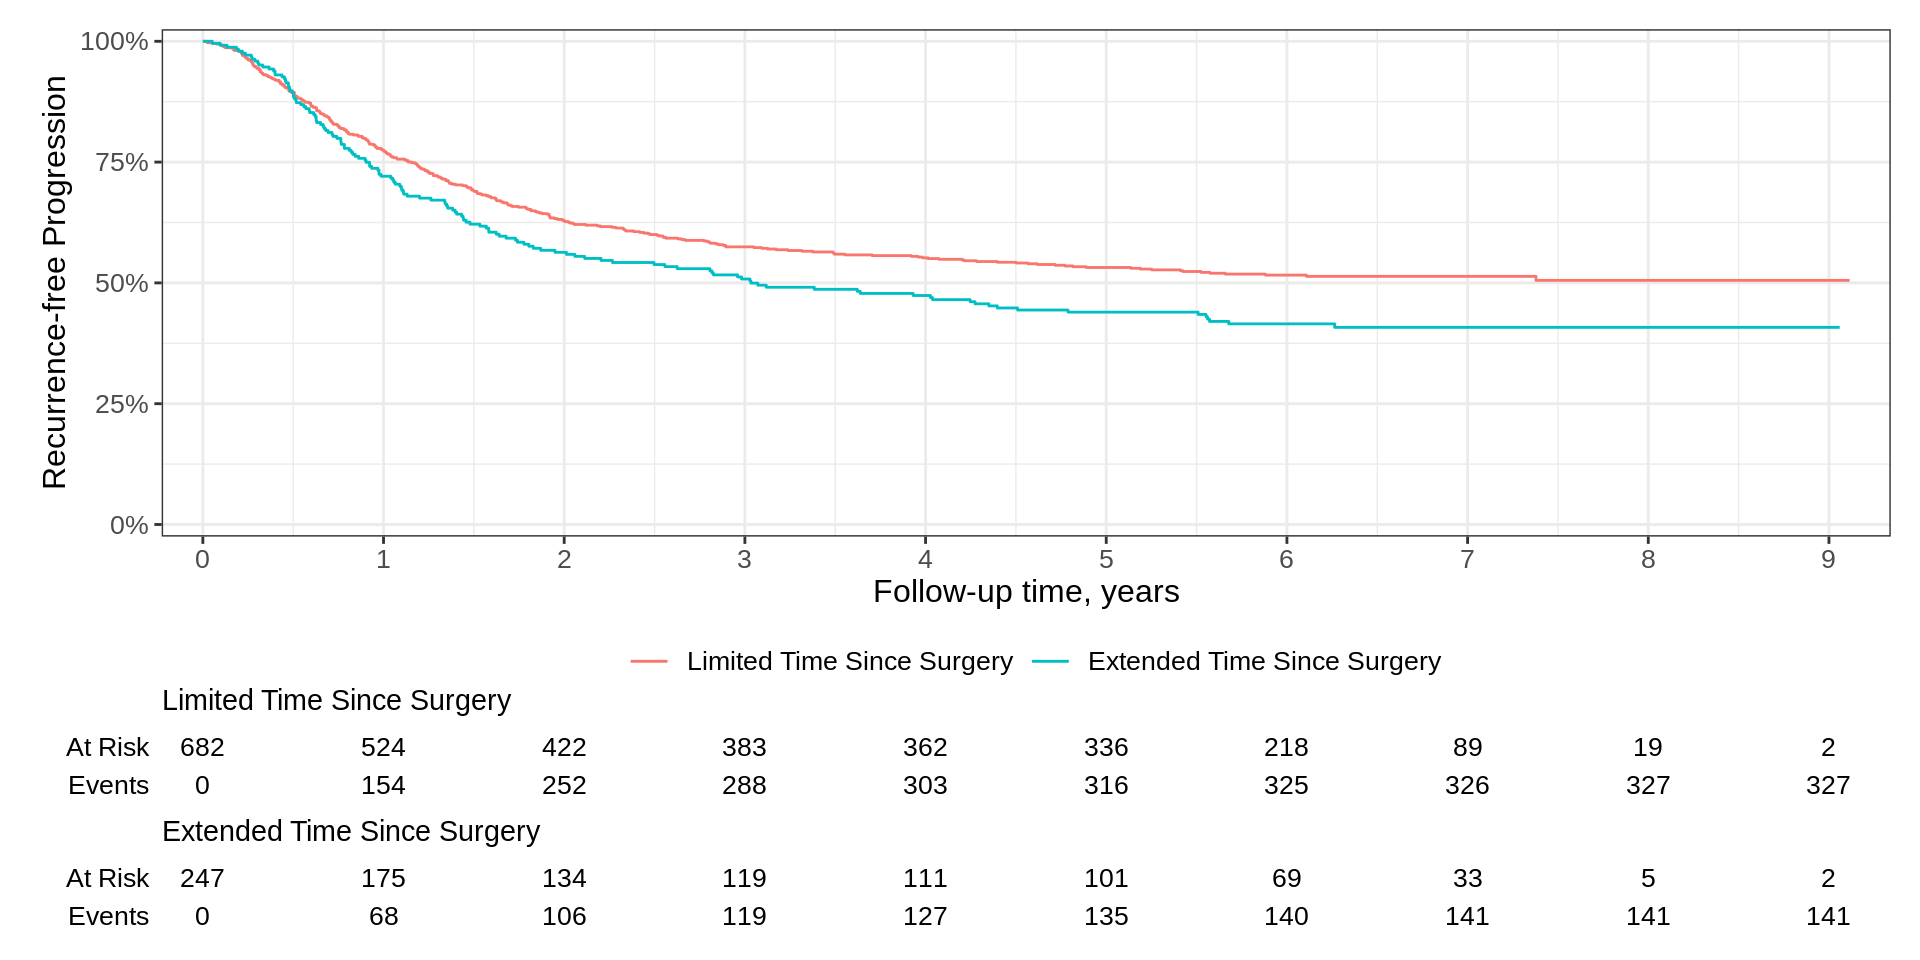
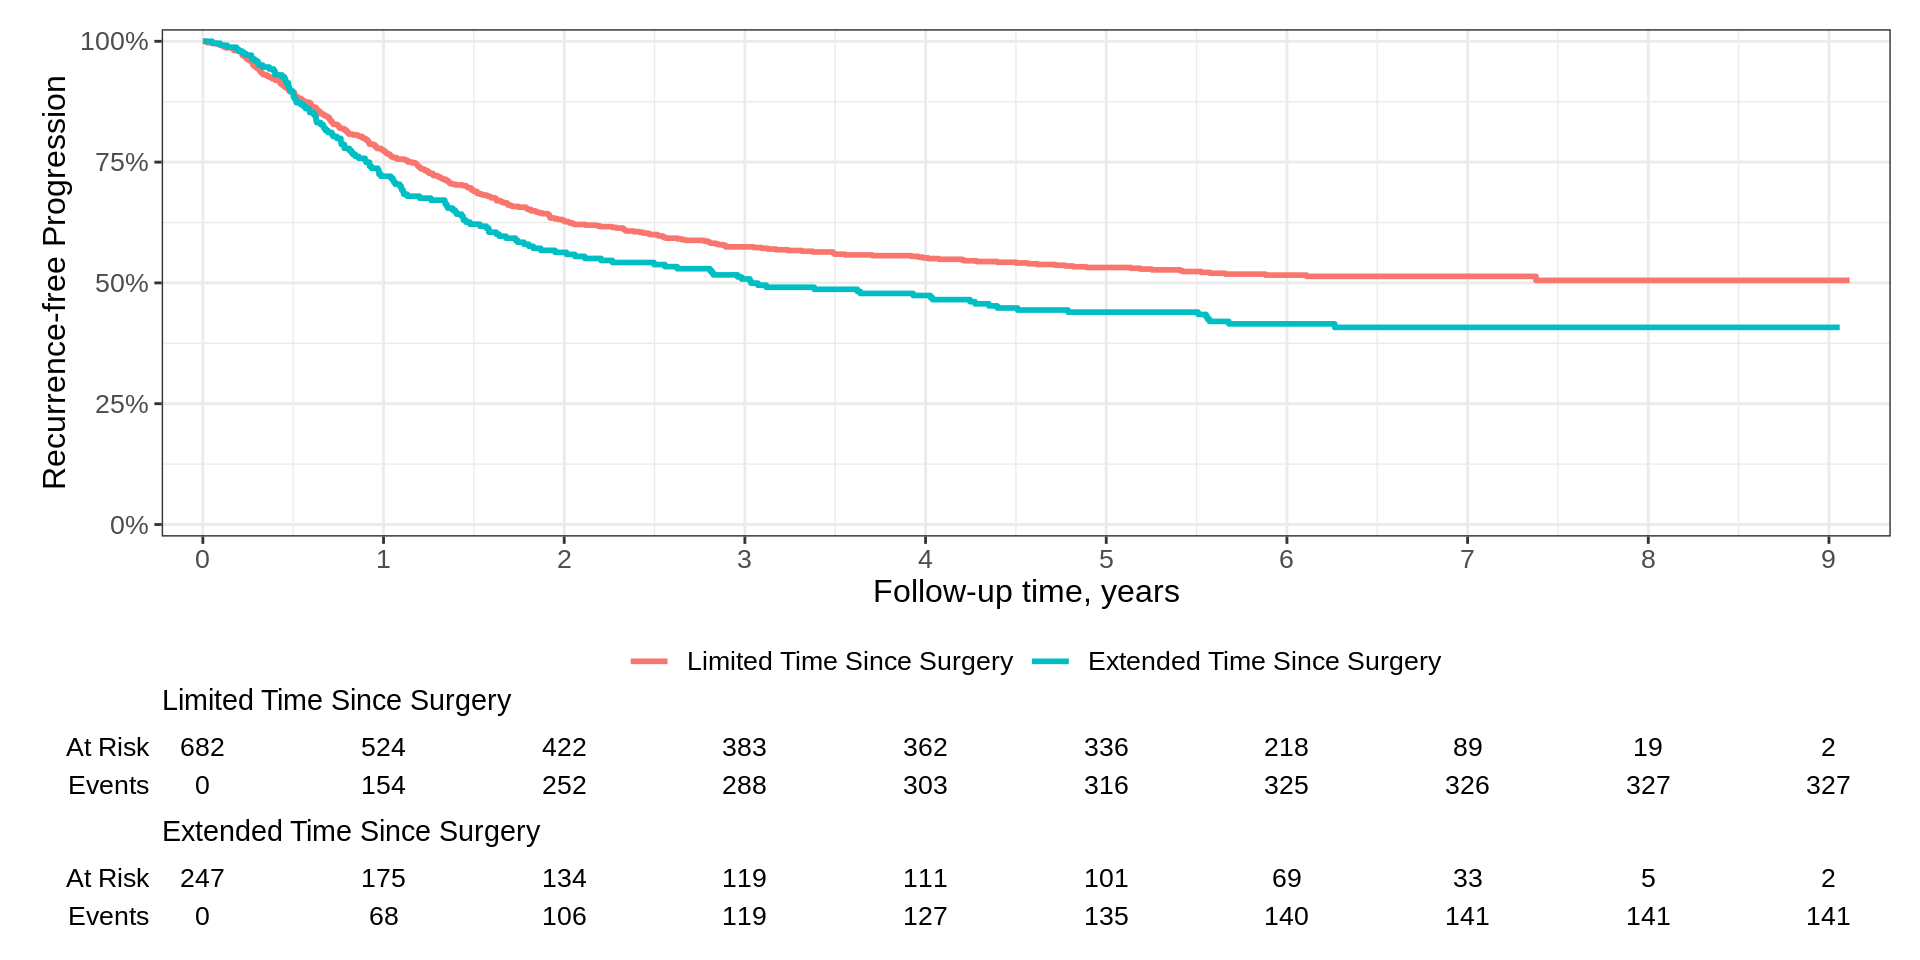
Built site for gh-pages

diff --git a/slides/index.html b/slides/index.html
@@ -1662,7 +1662,7 @@ surg=Extended Time Since Surgery 247    141   3.03    2.01    5.55</code></pre>
 <div class="column" style="width:80%;">
 <div class="cell">
 <div class="sourceCode cell-code" id="cb10"><pre class="sourceCode numberSource r number-lines code-with-copy"><code class="sourceCode r"><span id="cb10-1"><a href="#cb10-1"></a><span class="fu">survfit2</span>(<span class="fu">Surv</span>(time, status) <span class="sc">~</span> surg, <span class="at">data =</span> df_colon) <span class="sc">|&gt;</span> </span>
-<span id="cb10-2"><a href="#cb10-2"></a>  <span class="fu">ggsurvfit</span>() <span class="sc">+</span></span>
+<span id="cb10-2"><a href="#cb10-2"></a>  <span class="fu">ggsurvfit</span>(<span class="at">linewidth =</span> <span class="dv">1</span>) <span class="sc">+</span></span>
 <span id="cb10-3"><a href="#cb10-3"></a>  <span class="fu">add_risktable</span>()</span></code><button title="Copy to Clipboard" class="code-copy-button"><i class="bi"></i></button></pre></div>
 <div class="cell-output-display">
 <p><img data-src="index_files/figure-revealjs/unnamed-chunk-14-1.png" width="960"></p>
@@ -1697,7 +1697,7 @@ surg=Extended Time Since Surgery 247    141   3.03    2.01    5.55</code></pre>
 <div class="column" style="width:80%;">
 <div class="cell">
 <div class="sourceCode cell-code" id="cb11" data-code-line-numbers="4-5"><pre class="sourceCode numberSource r number-lines code-with-copy"><code class="sourceCode r"><span id="cb11-1"><a href="#cb11-1"></a><span class="fu">survfit2</span>(<span class="fu">Surv</span>(time, status) <span class="sc">~</span> surg, <span class="at">data =</span> df_colon) <span class="sc">|&gt;</span> </span>
-<span id="cb11-2"><a href="#cb11-2"></a>  <span class="fu">ggsurvfit</span>() <span class="sc">+</span></span>
+<span id="cb11-2"><a href="#cb11-2"></a>  <span class="fu">ggsurvfit</span>(<span class="at">linewidth =</span> <span class="dv">1</span>) <span class="sc">+</span></span>
 <span id="cb11-3"><a href="#cb11-3"></a>  <span class="fu">add_risktable</span>() <span class="sc">+</span></span>
 <span id="cb11-4"><a href="#cb11-4"></a>  <span class="fu">scale_ggsurvfit</span>() <span class="sc">+</span></span>
 <span id="cb11-5"><a href="#cb11-5"></a>  <span class="fu">labs</span>(<span class="at">y =</span> <span class="st">"Recurrence-free Progression"</span>)</span></code><button title="Copy to Clipboard" class="code-copy-button"><i class="bi"></i></button></pre></div>
@@ -1724,7 +1724,7 @@ surg=Extended Time Since Surgery 247    141   3.03    2.01    5.55</code></pre>
 <div class="column" style="width:80%;">
 <div class="cell">
 <div class="sourceCode cell-code" id="cb12" data-code-line-numbers="6"><pre class="sourceCode numberSource r number-lines code-with-copy"><code class="sourceCode r"><span id="cb12-1"><a href="#cb12-1"></a><span class="fu">survfit2</span>(<span class="fu">Surv</span>(time, status) <span class="sc">~</span> surg, <span class="at">data =</span> df_colon) <span class="sc">|&gt;</span> </span>
-<span id="cb12-2"><a href="#cb12-2"></a>  <span class="fu">ggsurvfit</span>() <span class="sc">+</span></span>
+<span id="cb12-2"><a href="#cb12-2"></a>  <span class="fu">ggsurvfit</span>(<span class="at">linewidth =</span> <span class="dv">1</span>) <span class="sc">+</span></span>
 <span id="cb12-3"><a href="#cb12-3"></a>  <span class="fu">add_risktable</span>() <span class="sc">+</span></span>
 <span id="cb12-4"><a href="#cb12-4"></a>  <span class="fu">scale_ggsurvfit</span>() <span class="sc">+</span></span>
 <span id="cb12-5"><a href="#cb12-5"></a>  <span class="fu">labs</span>(<span class="at">y =</span> <span class="st">"Recurrence-free Progression"</span>) <span class="sc">+</span></span>
@@ -1748,7 +1748,7 @@ surg=Extended Time Since Surgery 247    141   3.03    2.01    5.55</code></pre>
 <section id="basic-example-transformation" class="slide level2">
 <h2>Basic Example, transformation</h2>
 <div class="cell">
-<div class="sourceCode cell-code" id="cb13"><pre class="sourceCode numberSource r number-lines code-with-copy"><code class="sourceCode r"><span id="cb13-1"><a href="#cb13-1"></a><span class="fu">survfit2</span>(<span class="fu">Surv</span>(time, status) <span class="sc">~</span> surg, <span class="at">data =</span> df_colon) <span class="sc">|&gt;</span> </span>
+<div class="sourceCode cell-code" id="cb13" data-code-line-numbers="2"><pre class="sourceCode numberSource r number-lines code-with-copy"><code class="sourceCode r"><span id="cb13-1"><a href="#cb13-1"></a><span class="fu">survfit2</span>(<span class="fu">Surv</span>(time, status) <span class="sc">~</span> surg, <span class="at">data =</span> df_colon) <span class="sc">|&gt;</span> </span>
 <span id="cb13-2"><a href="#cb13-2"></a>  <span class="fu">ggsurvfit</span>(<span class="at">type =</span> <span class="st">"risk"</span>, <span class="at">linewidth =</span> <span class="dv">1</span>) <span class="sc">+</span></span>
 <span id="cb13-3"><a href="#cb13-3"></a>  <span class="fu">add_risktable</span>() <span class="sc">+</span></span>
 <span id="cb13-4"><a href="#cb13-4"></a>  <span class="fu">scale_ggsurvfit</span>() <span class="sc">+</span></span>
